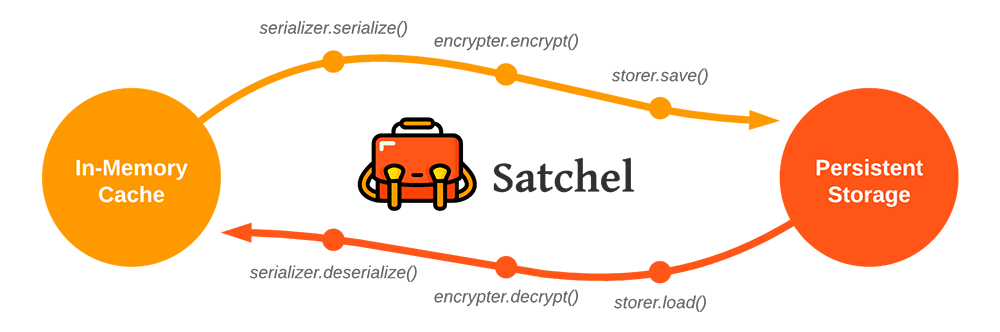
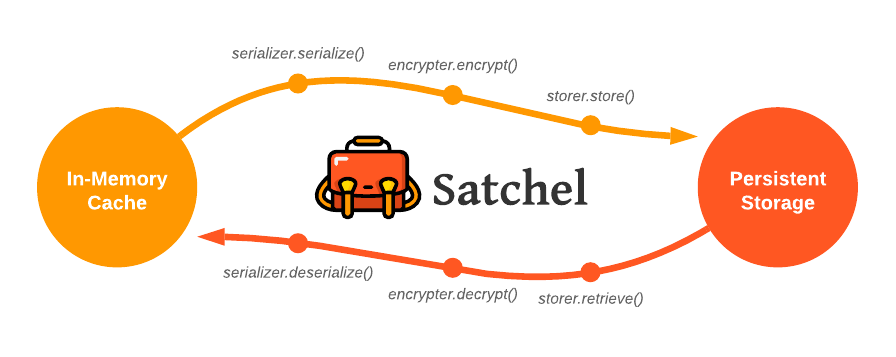
refactor: rename storer functions, rename protobuf lib to protobuf-lite

diff --git a/satchel-serializer-protobuf-lite/src/main/java/cafe/adriel/satchel/serializer/protobuf/lite/ProtobufLiteKtx.kt b/satchel-serializer-protobuf-lite/src/main/java/cafe/adriel/satchel/serializer/protobuf/lite/ProtobufLiteKtx.kt
@@ -1,12 +1,12 @@
-package cafe.adriel.satchel.serializer.protobuf
+package cafe.adriel.satchel.serializer.protobuf.lite
 
-import cafe.adriel.satchel.serializer.protobuf.proto.SatchelProto
-import cafe.adriel.satchel.serializer.protobuf.proto.SatchelProto.Value.Type.TypeCase
+import cafe.adriel.satchel.serializer.protobuf.lite.proto.SatchelProto.Value
+import cafe.adriel.satchel.serializer.protobuf.lite.proto.SatchelProto.Value.Type
+import cafe.adriel.satchel.serializer.protobuf.lite.proto.SatchelProto.Value.Type.TypeCase
 
-internal fun Any.toProtoValue(): SatchelProto.Value =
+internal fun Any.toProtoValue(): Value =
     if (this is List<*>) {
-        SatchelProto.Value
-            .newBuilder()
+        Value.newBuilder()
             .also { builder ->
                 this.forEach { item ->
                     item
@@ -16,16 +16,13 @@ internal fun Any.toProtoValue(): SatchelProto.Value =
             }
             .build()
     } else {
-        SatchelProto.Value
-            .newBuilder()
+        Value.newBuilder()
             .setSingleValue(getProtoType(this))
             .build()
     }
 
-private fun getProtoType(value: Any): SatchelProto.Value.Type =
-    SatchelProto.Value
-        .Type
-        .newBuilder()
+private fun getProtoType(value: Any): Type =
+    Type.newBuilder()
         .apply {
             when (value) {
                 is Double -> doubleValue = value
@@ -39,14 +36,14 @@ private fun getProtoType(value: Any): SatchelProto.Value.Type =
         }
         .build()
 
-internal fun SatchelProto.Value.toAnyValue(): Any =
+internal fun Value.toAnyValue(): Any =
     if (hasSingleValue()) {
         singleValue.toSingleValue()
     } else {
         multiValueList.toListValue()
     }
 
-internal fun SatchelProto.Value.Type.toSingleValue(): Any =
+internal fun Type.toSingleValue(): Any =
     when (typeCase) {
         TypeCase.DOUBLE_VALUE -> doubleValue
         TypeCase.FLOAT_VALUE -> floatValue
@@ -57,5 +54,5 @@ internal fun SatchelProto.Value.Type.toSingleValue(): Any =
         else -> throw TypeCastException("Protobuf type not supported: $typeCase")
     }
 
-internal fun List<SatchelProto.Value.Type>.toListValue(): List<Any> =
+internal fun List<Type>.toListValue(): List<Any> =
     mapNotNull { it.toSingleValue() }

diff --git a/test/src/test/java/cafe/adriel/satchel/SatchelTest.kt b/test/src/test/java/cafe/adriel/satchel/SatchelTest.kt
@@ -52,7 +52,7 @@ class SatchelTest {
         @Test
         fun `when init Satchel then load stored data`() {
             coVerifyOrder {
-                storer.load()
+                storer.retrieve()
                 encrypter.decrypt(any())
                 serializer.deserialize(any())
             }
@@ -69,7 +69,7 @@ class SatchelTest {
             coVerifyOrder {
                 serializer.serialize(any())
                 encrypter.encrypt(any())
-                storer.save(any())
+                storer.store(any())
             }
         }
 
@@ -81,7 +81,7 @@ class SatchelTest {
             coVerify(exactly = 2) {
                 serializer.serialize(any())
                 encrypter.encrypt(any())
-                storer.save(any())
+                storer.store(any())
             }
         }
 
@@ -93,7 +93,7 @@ class SatchelTest {
             coVerify(exactly = 1) {
                 serializer.serialize(any())
                 encrypter.encrypt(any())
-                storer.save(any())
+                storer.store(any())
             }
         }
 
@@ -104,7 +104,7 @@ class SatchelTest {
             coVerifyOrder {
                 serializer.serialize(any())
                 encrypter.encrypt(any())
-                storer.save(any())
+                storer.store(any())
             }
         }
     }

diff --git a/benchmark/src/androidTest/java/cafe/adriel/satchel/benchmark/serializer/SerializerWriteBenchmark.kt b/benchmark/src/androidTest/java/cafe/adriel/satchel/benchmark/serializer/SerializerWriteBenchmark.kt
@@ -3,13 +3,12 @@ package cafe.adriel.satchel.benchmark.serializer
 import androidx.benchmark.junit4.BenchmarkRule
 import androidx.benchmark.junit4.measureRepeated
 import cafe.adriel.satchel.benchmark.sampleData
-import cafe.adriel.satchel.ktx.serialize
 import cafe.adriel.satchel.serializer.SatchelSerializer
 import cafe.adriel.satchel.serializer.base64.android.Base64SatchelSerializer as AndroidBase64SatchelSerializer
 import cafe.adriel.satchel.serializer.base64.jvm.Base64SatchelSerializer as JvmBase64SatchelSerializer
 import cafe.adriel.satchel.serializer.gzip.GzipSatchelSerializer
 import cafe.adriel.satchel.serializer.kryo.KryoSatchelSerializer
-import cafe.adriel.satchel.serializer.protobuf.ProtobufSatchelSerializer
+import cafe.adriel.satchel.serializer.protobuf.lite.ProtobufLiteSatchelSerializer
 import cafe.adriel.satchel.serializer.raw.RawSatchelSerializer
 import kotlinx.coroutines.test.runBlockingTest
 import org.junit.Rule
@@ -33,7 +32,7 @@ class SerializerWriteBenchmark {
     fun base64Android() = runBenchmark(AndroidBase64SatchelSerializer)
 
     @Test
-    fun protobuf() = runBenchmark(ProtobufSatchelSerializer)
+    fun protobuf() = runBenchmark(ProtobufLiteSatchelSerializer)
 
     // TODO waiting for fix https://github.com/google/flatbuffers/issues/5944
 //    @Test

diff --git a/benchmark/src/androidTest/java/cafe/adriel/satchel/benchmark/serializer/SerializerReadBenchmark.kt b/benchmark/src/androidTest/java/cafe/adriel/satchel/benchmark/serializer/SerializerReadBenchmark.kt
@@ -3,13 +3,12 @@ package cafe.adriel.satchel.benchmark.serializer
 import androidx.benchmark.junit4.BenchmarkRule
 import androidx.benchmark.junit4.measureRepeated
 import cafe.adriel.satchel.benchmark.sampleData
-import cafe.adriel.satchel.ktx.serialize
 import cafe.adriel.satchel.serializer.SatchelSerializer
 import cafe.adriel.satchel.serializer.base64.android.Base64SatchelSerializer as AndroidBase64SatchelSerializer
 import cafe.adriel.satchel.serializer.base64.jvm.Base64SatchelSerializer as JvmBase64SatchelSerializer
 import cafe.adriel.satchel.serializer.gzip.GzipSatchelSerializer
 import cafe.adriel.satchel.serializer.kryo.KryoSatchelSerializer
-import cafe.adriel.satchel.serializer.protobuf.ProtobufSatchelSerializer
+import cafe.adriel.satchel.serializer.protobuf.lite.ProtobufLiteSatchelSerializer
 import cafe.adriel.satchel.serializer.raw.RawSatchelSerializer
 import kotlinx.coroutines.test.runBlockingTest
 import org.junit.Rule
@@ -33,7 +32,7 @@ class SerializerReadBenchmark {
     fun base64Android() = runBenchmark(AndroidBase64SatchelSerializer)
 
     @Test
-    fun protobuf() = runBenchmark(ProtobufSatchelSerializer)
+    fun protobuf() = runBenchmark(ProtobufLiteSatchelSerializer)
 
     // TODO waiting for fix https://github.com/google/flatbuffers/issues/5944
 //    @Test

diff --git a/test/src/test/java/cafe/adriel/satchel/serializer/SatchelSerializerTest.kt b/test/src/test/java/cafe/adriel/satchel/serializer/SatchelSerializerTest.kt
@@ -3,7 +3,7 @@ package cafe.adriel.satchel.serializer
 import cafe.adriel.satchel.serializer.base64.jvm.Base64SatchelSerializer
 import cafe.adriel.satchel.serializer.gzip.GzipSatchelSerializer
 import cafe.adriel.satchel.serializer.kryo.KryoSatchelSerializer
-import cafe.adriel.satchel.serializer.protobuf.ProtobufSatchelSerializer
+import cafe.adriel.satchel.serializer.protobuf.lite.ProtobufLiteSatchelSerializer
 import cafe.adriel.satchel.serializer.raw.RawSatchelSerializer
 import cafe.adriel.satchel.util.SampleData
 import java.util.stream.Stream
@@ -19,7 +19,7 @@ class SatchelSerializerTest {
     private val gzipSerializer = GzipSatchelSerializer
     private val base64Serializer = Base64SatchelSerializer
     private val kryoSerializer = KryoSatchelSerializer
-    private val protobufSerializer = ProtobufSatchelSerializer
+    private val protobufSerializer = ProtobufLiteSatchelSerializer
     // TODO waiting for fix https://github.com/google/flatbuffers/issues/5944
 //    private val flatbuffersSerializer = FlatbuffersSatchelSerializer
 

diff --git a/satchel-core/src/main/java/cafe/adriel/satchel/Satchel.kt b/satchel-core/src/main/java/cafe/adriel/satchel/Satchel.kt
@@ -109,7 +109,7 @@ class Satchel private constructor(
     }
 
     private fun loadStorage(): Map<String, Any> =
-        storer.load()
+        storer.retrieve()
             .let(encrypter::decrypt)
             .let(serializer::deserialize)
 
@@ -118,7 +118,7 @@ class Satchel private constructor(
             saveMutex.withLock {
                 serializer.serialize(storage)
                     .let { encrypter.encrypt(it) }
-                    .let { storer.save(it) }
+                    .let { storer.store(it) }
             }
         }
     }

diff --git a/satchel-serializer-protobuf-lite/src/main/java/cafe/adriel/satchel/serializer/protobuf/lite/ProtobufLiteSatchelSerializer.kt b/satchel-serializer-protobuf-lite/src/main/java/cafe/adriel/satchel/serializer/protobuf/lite/ProtobufLiteSatchelSerializer.kt
@@ -1,9 +1,9 @@
-package cafe.adriel.satchel.serializer.protobuf
+package cafe.adriel.satchel.serializer.protobuf.lite
 
 import cafe.adriel.satchel.serializer.SatchelSerializer
-import cafe.adriel.satchel.serializer.protobuf.proto.SatchelProto
+import cafe.adriel.satchel.serializer.protobuf.lite.proto.SatchelProto
 
-object ProtobufSatchelSerializer : SatchelSerializer {
+object ProtobufLiteSatchelSerializer : SatchelSerializer {
 
     override suspend fun serialize(data: Map<String, Any>): ByteArray =
         SatchelProto.Satchel

diff --git a/satchel-storer-encrypted-file/src/main/java/cafe/adriel/satchel/storer/encryptedfile/EncryptedFileSatchelStorer.kt b/satchel-storer-encrypted-file/src/main/java/cafe/adriel/satchel/storer/encryptedfile/EncryptedFileSatchelStorer.kt
@@ -30,14 +30,14 @@ class EncryptedFileSatchelStorer private constructor(
             )
     }
 
-    override suspend fun save(data: ByteArray) {
+    override suspend fun store(data: ByteArray) {
         file.delete()
         encryptedFile.openFileOutput().use { stream ->
             stream.write(data)
         }
     }
 
-    override fun load(): ByteArray =
+    override fun retrieve(): ByteArray =
         when {
             file.isEmpty -> ByteArray(0)
             else -> encryptedFile.openFileInput().use { stream ->

diff --git a/test/src/test/java/cafe/adriel/satchel/storer/SatchelStorerTest.kt b/test/src/test/java/cafe/adriel/satchel/storer/SatchelStorerTest.kt
@@ -42,8 +42,8 @@ class SatchelStorerTest {
         ).map { storer ->
             dynamicTest(storer::class.simpleName) {
                 runBlockingTest {
-                    storer.save(sampleByteArray)
-                    val loaded = storer.load()
+                    storer.store(sampleByteArray)
+                    val loaded = storer.retrieve()
 
                     expectThat(loaded) contentEquals sampleByteArray
                     expectThat(loaded) propertiesAreEqualTo sampleByteArray

diff --git a/satchel-core/src/main/java/cafe/adriel/satchel/storer/file/FileSatchelStorer.kt b/satchel-core/src/main/java/cafe/adriel/satchel/storer/file/FileSatchelStorer.kt
@@ -6,10 +6,10 @@ import java.io.File
 
 class FileSatchelStorer(private val file: File) : SatchelStorer {
 
-    override suspend fun save(data: ByteArray) =
+    override suspend fun store(data: ByteArray) =
         file.writeBytes(data)
 
-    override fun load(): ByteArray =
+    override fun retrieve(): ByteArray =
         when {
             file.isEmpty -> ByteArray(0)
             else -> file.readBytes()

diff --git a/benchmark/src/androidTest/java/cafe/adriel/satchel/benchmark/storer/StorerReadBenchmark.kt b/benchmark/src/androidTest/java/cafe/adriel/satchel/benchmark/storer/StorerReadBenchmark.kt
@@ -29,10 +29,10 @@ class StorerReadBenchmark {
     )
 
     private fun runBenchmark(storer: SatchelStorer) = runBlockingTest {
-        storer.save(serializedSampleData)
+        storer.store(serializedSampleData)
 
         benchmarkRule.measureRepeated {
-            storer.load()
+            storer.retrieve()
         }
     }
 }

diff --git a/benchmark/src/androidTest/java/cafe/adriel/satchel/benchmark/storer/StorerWriteBenchmark.kt b/benchmark/src/androidTest/java/cafe/adriel/satchel/benchmark/storer/StorerWriteBenchmark.kt
@@ -31,7 +31,7 @@ class StorerWriteBenchmark {
     private fun runBenchmark(storer: SatchelStorer) {
         benchmarkRule.measureRepeated {
             runBlockingTest {
-                storer.save(serializedSampleData)
+                storer.store(serializedSampleData)
             }
         }
     }
